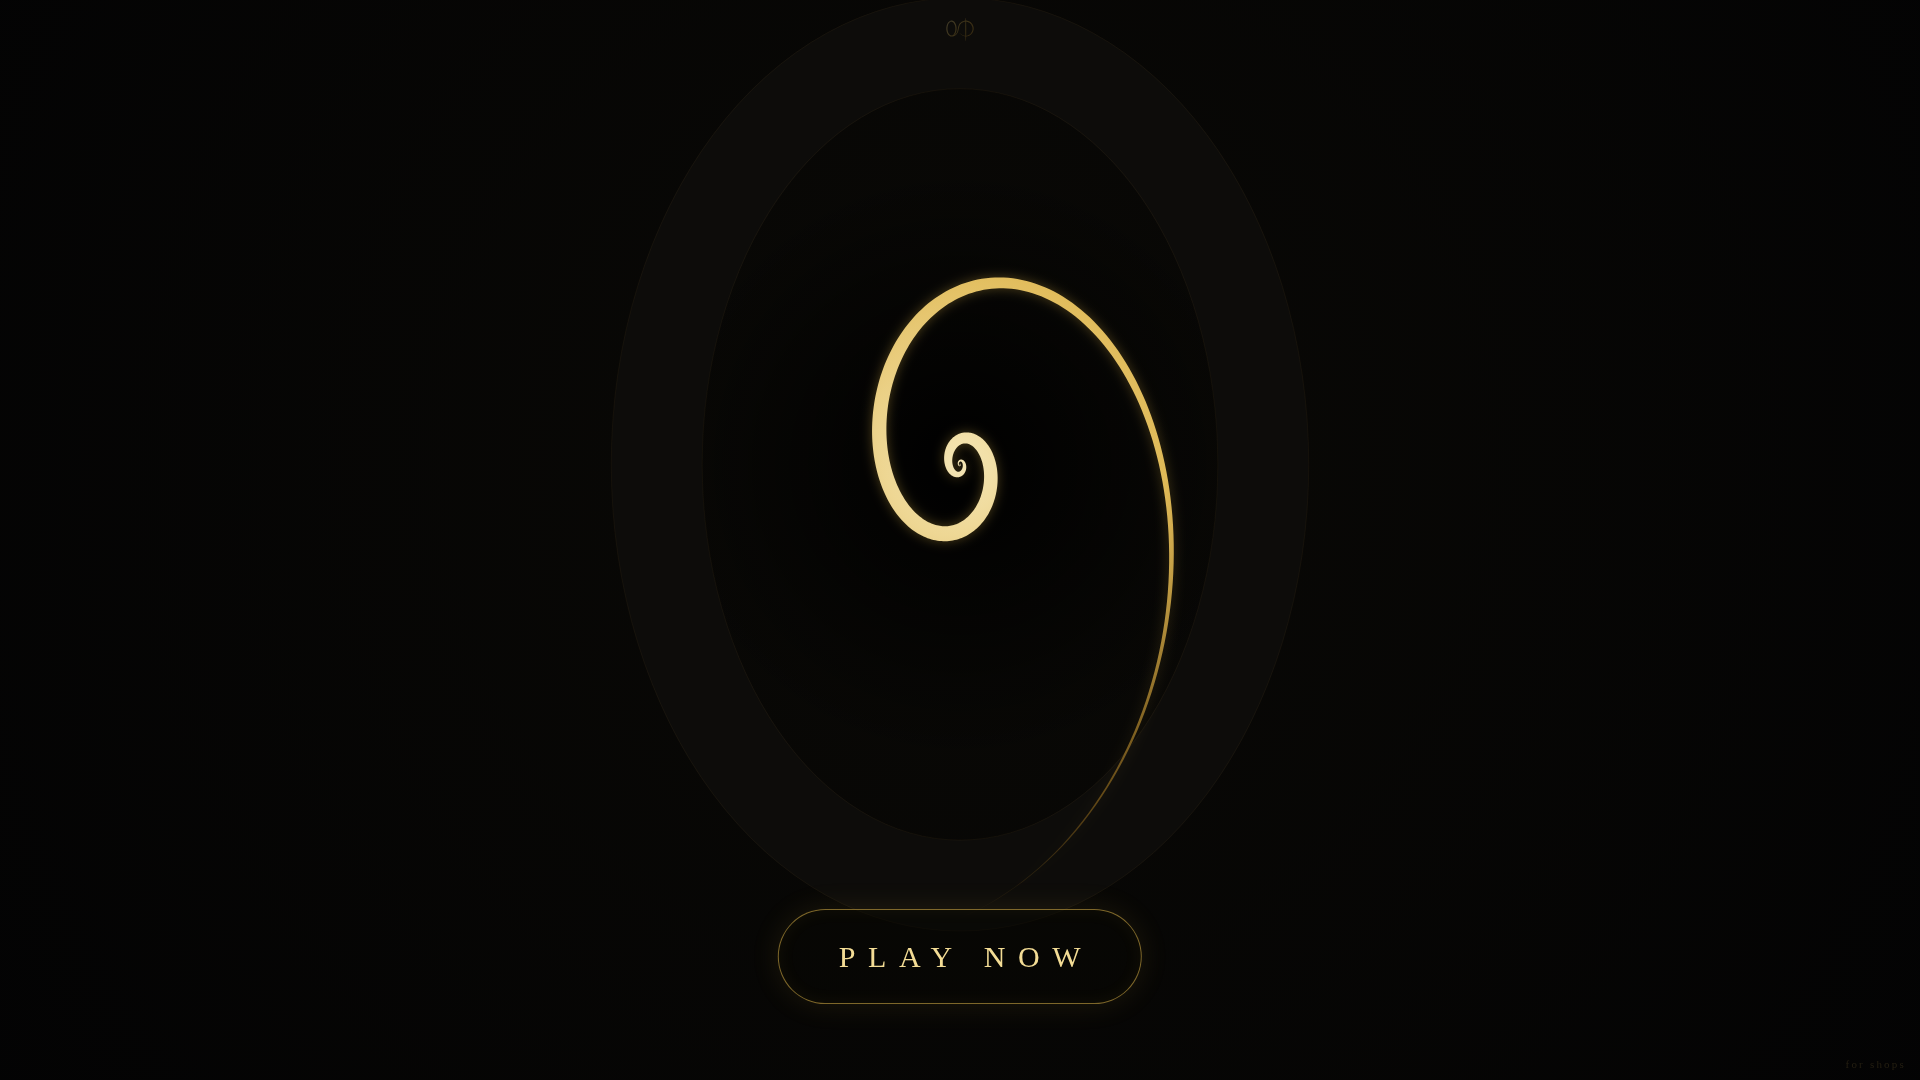
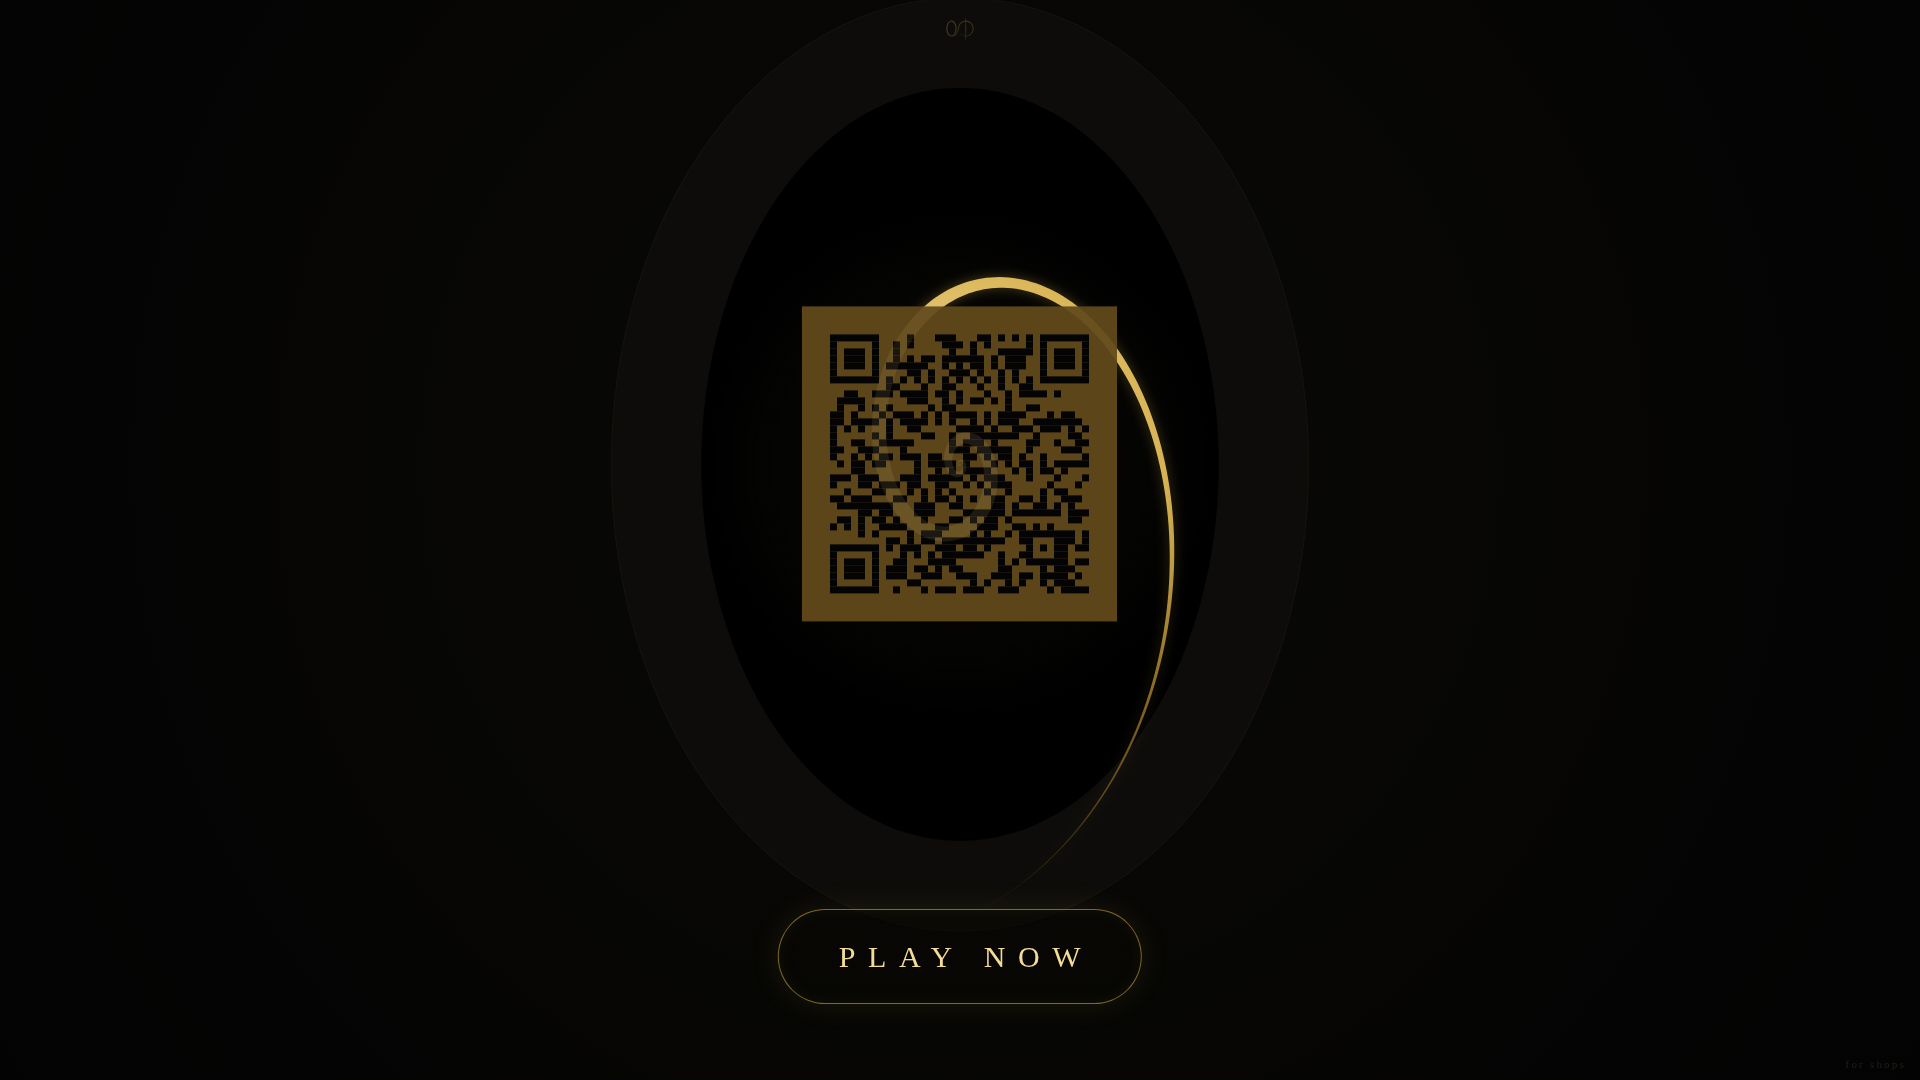
Dev zero page: hidden level-3 QR in the zero, ?bare=1 variant (tap zero to play, soft pulse)

Changed region(s): [[0.4062, 0.275, 0.5938, 0.5806]]

diff --git a/dev-7q3x/zero/index.html b/dev-7q3x/zero/index.html
@@ -25,10 +25,17 @@ canvas{position:fixed;inset:0;width:100vw;height:100vh;display:block}
 <img class="logo" src="../../assets/img/logo.svg" alt="">
 <a class="play" href="../../family.html">PLAY NOW</a>
 <a class="shops" href="../../business.html">for shops</a>
+<script src="../js/qrcode.js"></script>
 <script>
 (function(){
+var qs=new URLSearchParams(location.search),bare=qs.get('bare')==='1';
+var Q=qrcode(0,'H');Q.addData('https://amazingjustinlewis-web.github.io/');Q.make();var QN=Q.getModuleCount(),QZ=4;
+if(bare){document.body.classList.add('bare');var pl=document.querySelector('.play');pl.parentNode.removeChild(pl);
+ window.__bare=1;}
+
 var c=document.getElementById('c'),x=c.getContext('2d'),W,H,D,PHI=(1+Math.sqrt(5))/2;
-var still=matchMedia('(prefers-reduced-motion: reduce)');
+if(window.__bare){c.style.cursor='pointer';c.setAttribute('role','link');c.setAttribute('aria-label','Play');c.addEventListener('click',function(){location.href='../../family.html'})}
+var still=matchMedia('(prefers-reduced-motion: reduce)');if(qs.get('still')==='1')still={matches:true};
 var pts=[];
 function size(){D=Math.min(devicePixelRatio||1,2);W=innerWidth;H=innerHeight;c.width=W*D;c.height=H*D;x.setTransform(D,0,0,D,0,0);build()}
 // zero geometry: tall oval, ~0.72 aspect
@@ -56,6 +63,13 @@ function draw(ms){
  x.beginPath();x.ellipse(0,0,z.rw-ring/2,z.rh-ring/2,0,0,Math.PI*2);x.stroke();
  var h=x.createRadialGradient(0,0,0,0,0,z.rw);h.addColorStop(0,'#000');h.addColorStop(1,'rgba(0,0,0,0)');
  x.fillStyle=h;x.beginPath();x.ellipse(0,0,z.rw-ring/2,z.rh-ring/2,0,0,Math.PI*2);x.fill();
+ // hidden QR (contrast level 3) in the heart of the zero
+ var inner=Math.min(z.rw-ring/2,z.rh-ring/2)*1.25,m=Math.max(2,Math.floor(inner/(QN+2*QZ))),S=m*(QN+2*QZ),o=-Math.round(S/2);
+ x.fillStyle='#5c4519';x.fillRect(o,o,S,S);x.fillStyle='#050404';
+ for(var qr=0;qr<QN;qr++)for(var qk=0;qk<QN;qk++)if(Q.isDark(qr,qk))x.fillRect(o+(qk+QZ)*m,o+(qr+QZ)*m,m,m);
+ var e=x.createRadialGradient(0,0,S*0.5,0,0,S*0.8);e.addColorStop(0,'rgba(0,0,0,0)');e.addColorStop(1,'rgba(0,0,0,1)');
+ x.fillStyle=e;x.beginPath();x.ellipse(0,0,z.rw-ring/2+1,z.rh-ring/2+1,0,0,7);x.rect(o-1,o-1,S+2,S+2);x.fill('evenodd');
+ var pulse=window.__bare&&!still.matches?0.5+0.5*Math.sin(T*1.3):0;
  // spiral, stretched to the oval, slowly turning and breathing
  var rot=T*0.018,br=1+0.012*Math.sin(T*0.35),sx=br,sy=br*z.rh/z.rw;
  var R=pts[pts.length-1][1],L=[],Rt=[];
@@ -68,9 +82,11 @@ function draw(ms){
  var sh=0.5+0.5*Math.sin(T*0.5);
  gg.addColorStop(0,'rgba(255,240,190,0.95)');gg.addColorStop(0.45,'rgba(236,196,92,'+(0.85+0.1*sh)+')');
  gg.addColorStop(0.8,'rgba(192,138,34,0.45)');gg.addColorStop(1,'rgba(150,105,25,0)');
- x.beginPath();x.moveTo(L[0][0],L[0][1]);for(i=1;i<L.length;i++)x.lineTo(L[i][0],L[i][1]);
- for(i=Rt.length-1;i>=0;i--)x.lineTo(Rt[i][0],Rt[i][1]);x.closePath();
- x.shadowColor='rgba(226,184,74,0.35)';x.shadowBlur=12;x.fillStyle=gg;x.fill();
+ var sp=new Path2D();sp.moveTo(L[0][0],L[0][1]);for(i=1;i<L.length;i++)sp.lineTo(L[i][0],L[i][1]);
+ for(i=Rt.length-1;i>=0;i--)sp.lineTo(Rt[i][0],Rt[i][1]);sp.closePath();
+ x.fillStyle=gg;x.shadowColor='rgba(226,184,74,'+(0.35+0.4*pulse)+')';x.shadowBlur=12+16*pulse;
+ x.save();x.beginPath();x.rect(-W*2,-H*2,W*4,H*4);x.rect(o,o,S,S);x.clip('evenodd');x.fill(sp);x.restore();
+ x.save();x.beginPath();x.rect(o,o,S,S);x.clip();x.globalAlpha=0.1;x.shadowBlur=0;x.fill(sp);x.restore();
  x.restore();
  if(!still.matches)requestAnimationFrame(draw);
 }
